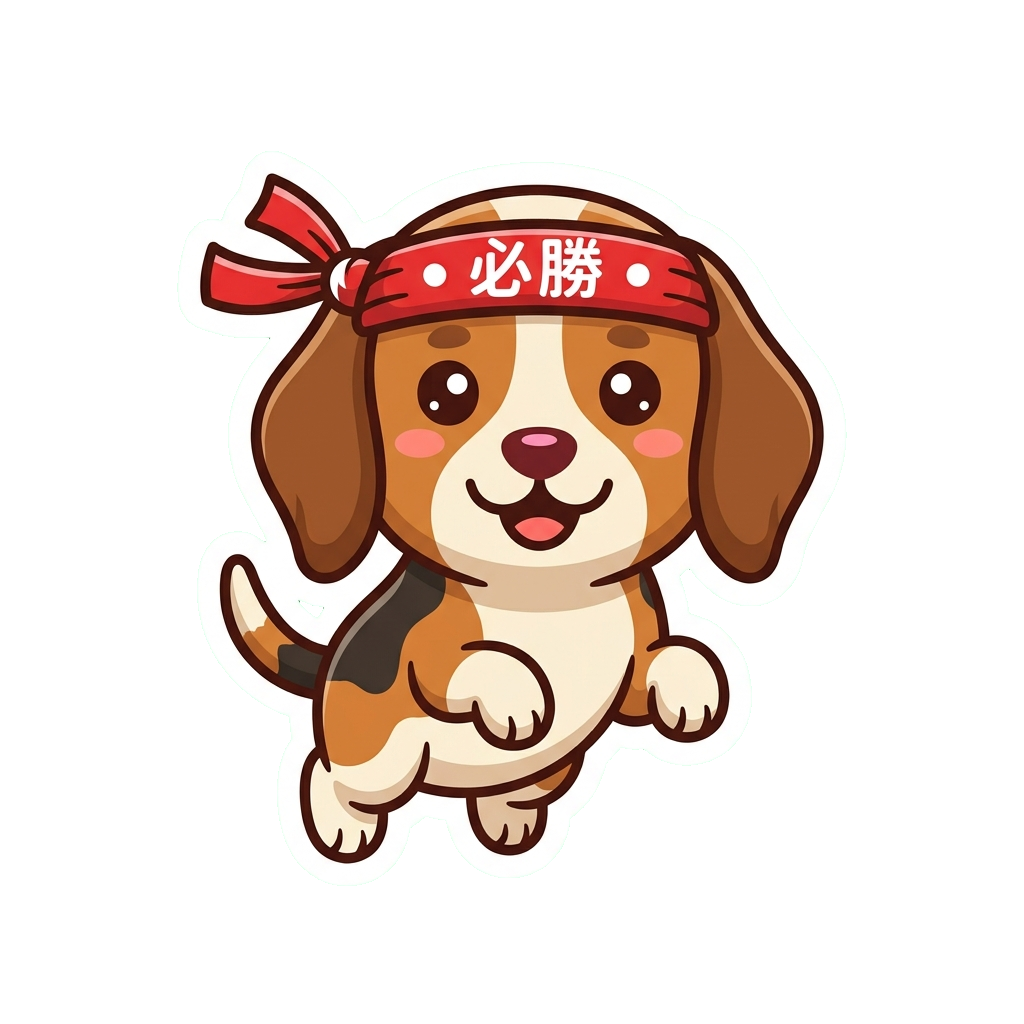
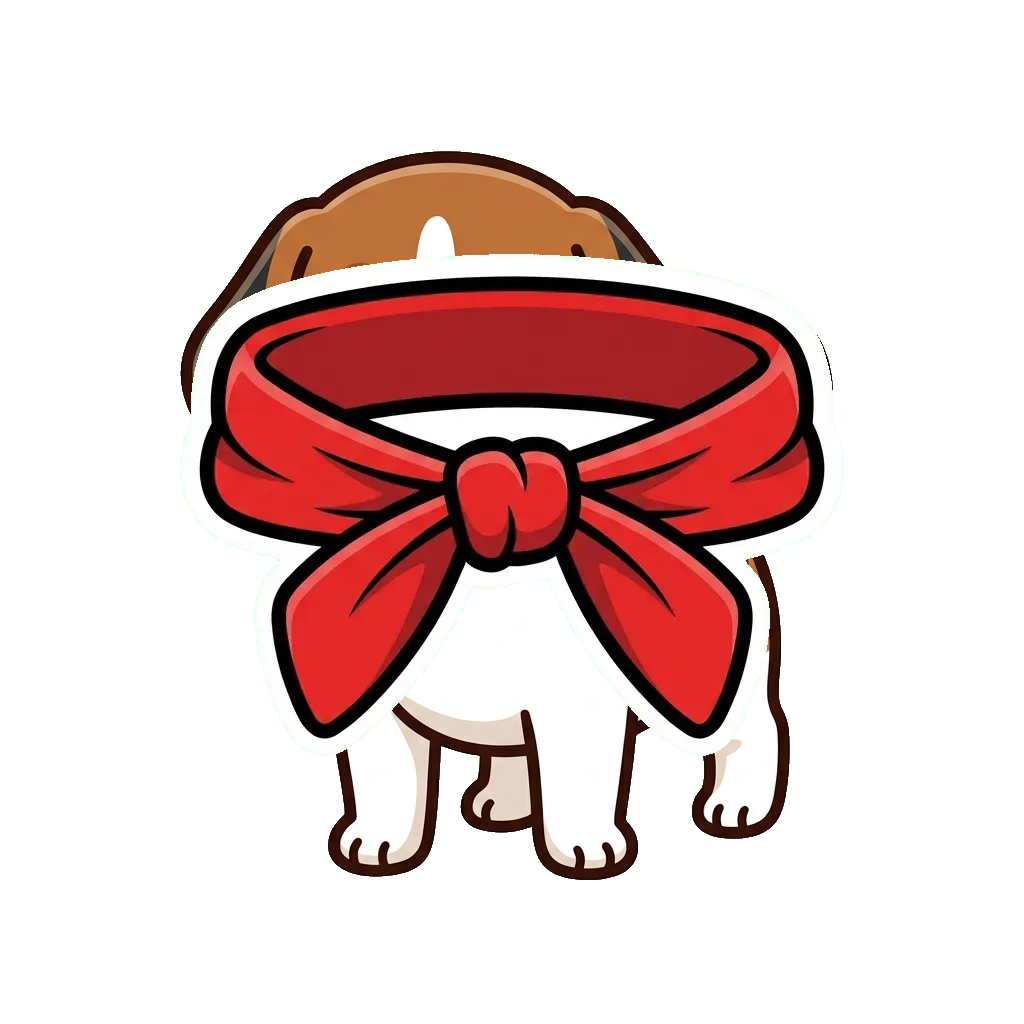
feat: generate 80 dedicated pre-fitted mascot artwork assets covering all items for all 4 dog breeds

diff --git a/scripts/generate_fitted_mascots.js b/scripts/generate_fitted_mascots.js
@@ -1,0 +1,51 @@
+const sharp = require('sharp');
+const fs = require('fs');
+
+const breeds = ['shiba', 'poodle', 'beagle', 'pomeranian'];
+const baseImages = {
+  shiba: 'public/mascot/shiba-base.webp',
+  poodle: 'public/mascot/poodle-base.png',
+  beagle: 'public/mascot/beagle-base.png',
+  pomeranian: 'public/mascot/pomeranian-base.png',
+};
+
+const items = [
+  'hat-cap', 'hat-santa', 'hachimaki', 'bandana', 'crown', 'wizard-hat',
+  'pink-ribbon', 'headphones', 'horns', 'halo', 'flower-crown',
+  'glasses', 'mask-fox', 'mask-oni', 'earring-gold', 'stud-ear',
+  'scarf', 'muffler', 'bow-tie', 'necklace-pearl',
+  'hakama', 'armor-samurai', 'cape', 'ninja', 'hawaiian-shirt', 'randoseru'
+];
+
+async function run() {
+  console.log('🌸 Generating pre-fitted mascot artwork assets for all breeds & items...');
+
+  let count = 0;
+  for (const breed of breeds) {
+    const basePath = baseImages[breed];
+    if (!fs.existsSync(basePath)) continue;
+
+    for (const item of items) {
+      const overlayPath = `public/mascot/overlay-${item}.webp`;
+      const outputPath = `public/mascot/${breed}-${item}.png`;
+
+      if (fs.existsSync(overlayPath)) {
+        try {
+          const overlayBuffer = await sharp(overlayPath).resize(1024, 1024).toBuffer();
+          await sharp(basePath)
+            .resize(1024, 1024)
+            .composite([{ input: overlayBuffer, top: 0, left: 0 }])
+            .png()
+            .toFile(outputPath);
+          count++;
+          console.log(`✓ Created pre-fitted asset: ${outputPath}`);
+        } catch (e) {
+          console.error(`Failed ${breed}-${item}:`, e);
+        }
+      }
+    }
+  }
+  console.log(`🎉 All ${count} pre-fitted mascot assets generated successfully!`);
+}
+
+run().catch(console.error);

diff --git a/src/components/mascot/ShibaAvatar.tsx b/src/components/mascot/ShibaAvatar.tsx
@@ -390,9 +390,13 @@ export function ShibaAvatar({
   circular = false,
   triggerLevelUp,
 }: ShibaAvatarProps) {
-  const equippedItemId = equippedItemIds && equippedItemIds.length > 0 ? normalizeItemId(equippedItemIds[0]) : null;
+  const rawEquippedId = equippedItemIds && equippedItemIds.length > 0 ? equippedItemIds[0] : null;
+  const equippedItemId = rawEquippedId ? normalizeItemId(rawEquippedId) : null;
+  
   const fittedMascotSrc = equippedItemId
-    ? (CHARACTER_ITEM_MASCOTS[characterId]?.[equippedItemId] || CHARACTER_ITEM_MASCOTS[characterId]?.[equippedItemIds![0]])
+    ? (CHARACTER_ITEM_MASCOTS[characterId]?.[equippedItemId] || 
+       CHARACTER_ITEM_MASCOTS[characterId]?.[rawEquippedId!] ||
+       `/mascot/${characterId}-${equippedItemId}.png`)
     : null;
 
   const baseImage = (characterId && CHARACTER_BASES[characterId]) || CHARACTER_BASES.shiba;
